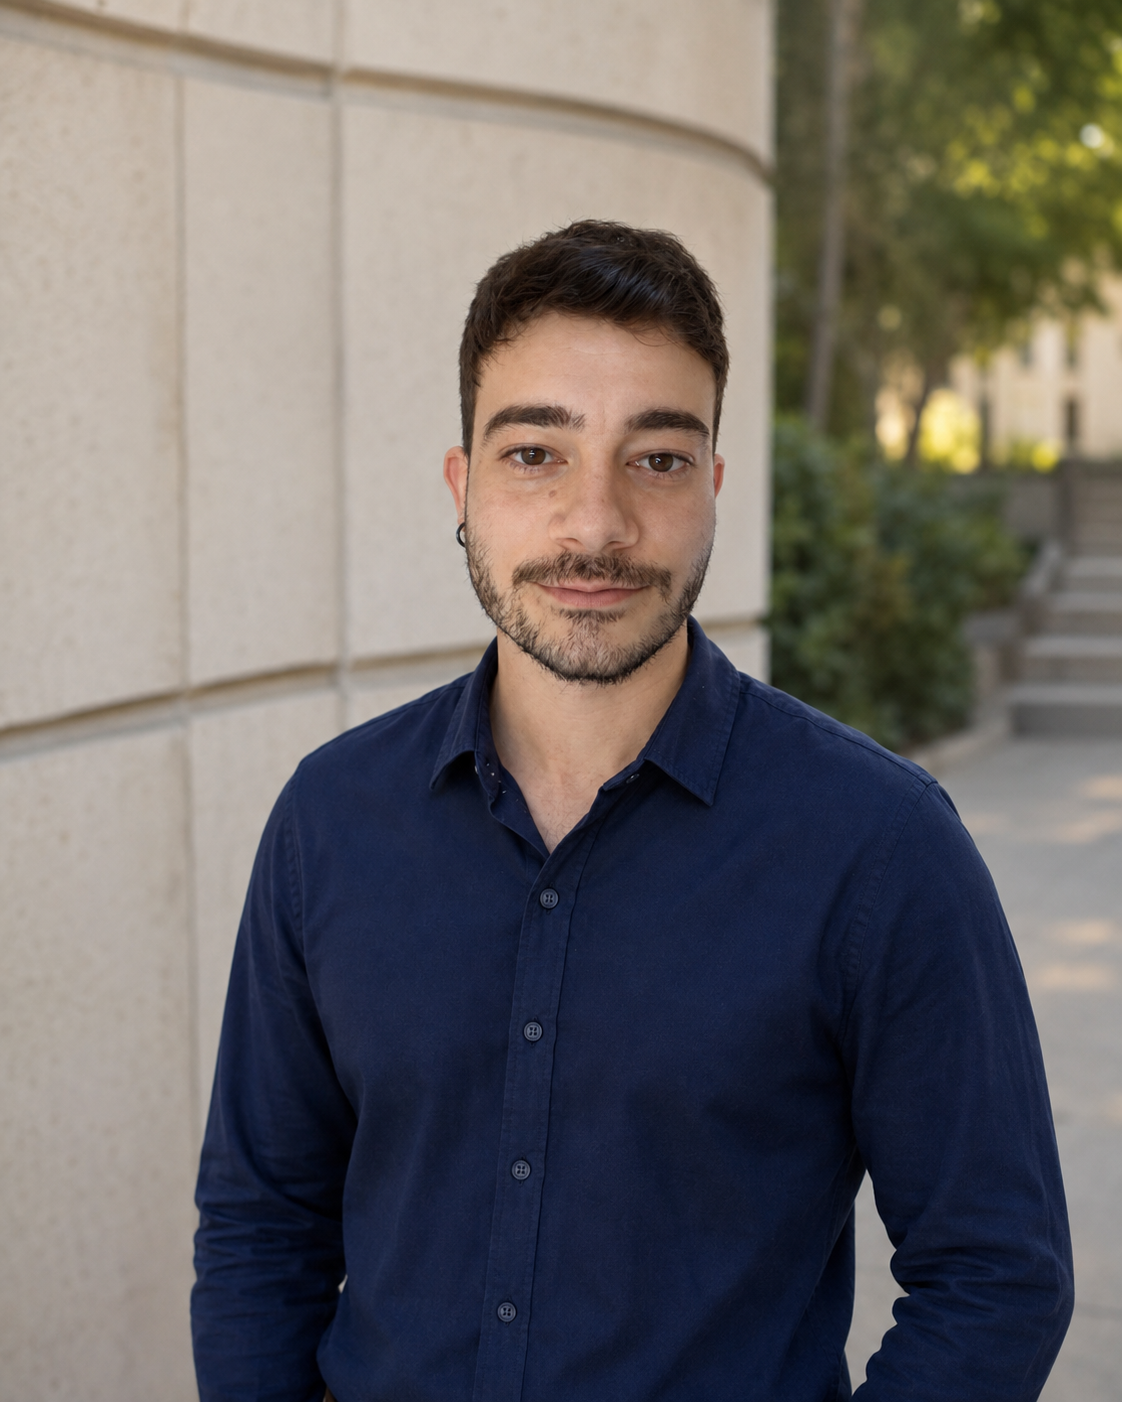
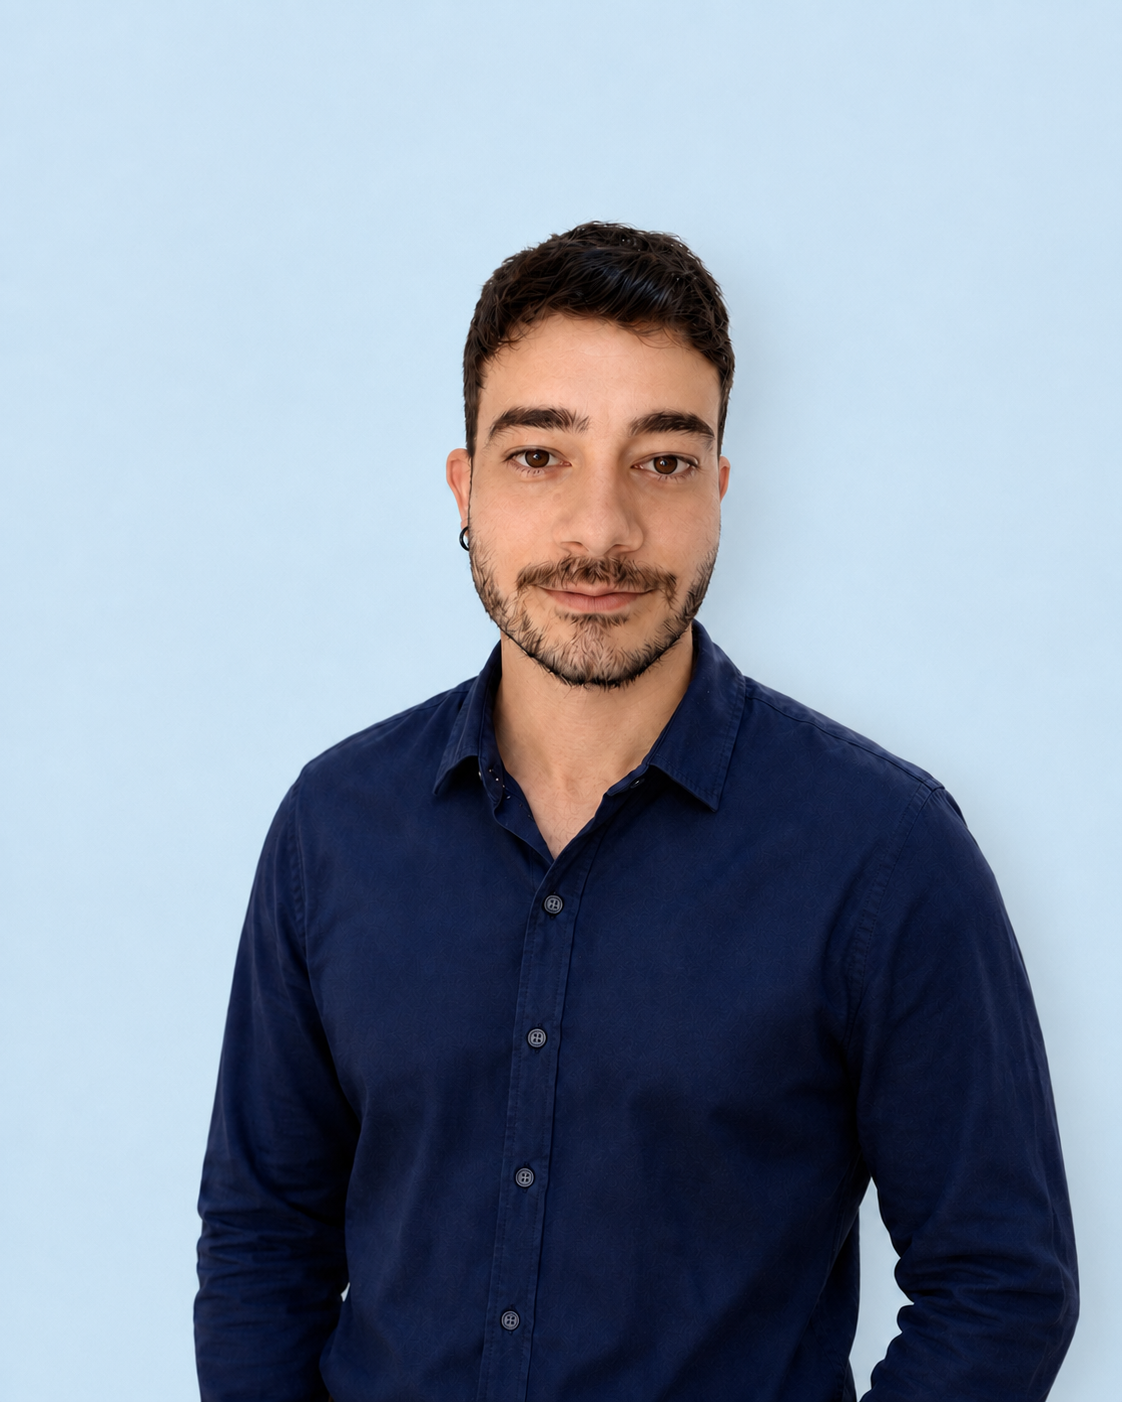
refine(home): compact hero layout and photo panel
Tighten text rhythm, align hero grid with navbar, resize photo with max-height cap, and simplify container styling for the new blue-background image.

diff --git a/sections/Hero.tsx b/sections/Hero.tsx
@@ -22,79 +22,70 @@ const Hero: React.FC<HeroProps> = ({ onNavigateRisorse }) => {
   };
 
   return (
-    <section className="relative pt-24 pb-4 lg:pt-28 lg:pb-5 overflow-hidden bg-white">
+    <section className="relative pt-24 pb-3 lg:pt-24 lg:pb-4 overflow-hidden bg-white">
       {/* Sfondo con gradiente soft */}
       <div className="absolute inset-0 -z-10 bg-gradient-to-b from-slate-50/80 via-white to-white" />
       <div className="absolute top-0 left-1/2 -translate-x-1/2 w-full max-w-4xl h-[480px] bg-gradient-to-b from-blue-100/40 to-transparent rounded-full blur-3xl -z-10" />
 
-      <div className="max-w-[1320px] mx-auto px-4 sm:px-6 lg:px-8 relative z-10">
-        <div className="grid grid-cols-1 lg:grid-cols-[minmax(0,1.15fr)_minmax(410px,480px)] lg:gap-x-16 xl:gap-x-20 lg:gap-y-0 lg:items-center">
-          {/* Badge */}
-          <div className="order-1 lg:col-start-1 lg:row-start-1 flex justify-center lg:justify-start mb-4 sm:mb-5 lg:mb-5">
-            <div className="inline-flex items-center px-5 py-2 rounded-full bg-blue-50/90 border border-blue-100 text-blue-700 shadow-sm gap-2 ring-1 ring-blue-50">
+      <div className="max-w-7xl mx-auto px-4 sm:px-6 lg:px-8 relative z-10">
+        <div className="grid grid-cols-1 lg:grid-cols-[minmax(0,1fr)_auto] lg:gap-x-12 xl:gap-x-16 lg:items-center">
+          {/* Gruppo testuale compatto */}
+          <div className="order-1 flex flex-col items-center lg:items-start text-center lg:text-left">
+            <div className="inline-flex items-center px-5 py-2 rounded-full bg-blue-50/90 border border-blue-100 text-blue-700 shadow-sm gap-2 ring-1 ring-blue-50 mb-8">
               <GraduationCap className="w-4 h-4 text-blue-600" aria-hidden />
               <span className="text-sm font-semibold">Tutor STEM</span>
             </div>
-          </div>
 
-          {/* Titolo */}
-          <h1 className="order-2 lg:col-start-1 lg:row-start-2 max-w-4xl mx-auto lg:mx-0 text-center lg:text-left text-[2.125rem] sm:text-5xl lg:text-[3.75rem] font-extrabold text-slate-900 leading-[1.08] mb-5 sm:mb-6 tracking-tight">
-            Percorsi strutturati in <br className="hidden lg:block" />
-            <span className="gradient-text">Matematica e Fisica</span>
-          </h1>
+            <h1 className="text-[2.125rem] sm:text-5xl lg:text-[3.5rem] font-extrabold text-slate-900 leading-[1.08] mb-10 tracking-tight">
+              Percorsi strutturati in <br className="hidden lg:block" />
+              <span className="gradient-text">Matematica e Fisica</span>
+            </h1>
 
-          {/* Sottotitolo */}
-          <p className="order-3 lg:col-start-1 lg:row-start-3 text-lg sm:text-xl lg:text-2xl text-slate-500 font-light max-w-3xl mx-auto lg:mx-0 text-center lg:text-left mb-7 sm:mb-8 leading-relaxed">
-            Percorsi guidati di Matematica e Fisica per il{' '}
-            <span className="font-semibold text-slate-700">semestre filtro</span> di Medicina, i test{' '}
-            <span className="font-semibold text-slate-700">TOLC</span>, l&apos;università e le scuole superiori.
-          </p>
+            <p className="text-lg sm:text-xl lg:text-2xl text-slate-500 font-light max-w-xl lg:max-w-[32rem] mb-9 leading-relaxed">
+              Percorsi guidati di Matematica e Fisica per il{' '}
+              <span className="font-semibold text-slate-700">semestre filtro</span> di Medicina, i test{' '}
+              <span className="font-semibold text-slate-700">TOLC</span>, l&apos;università e le scuole superiori.
+            </p>
 
-          {/* CTA */}
-          <div className="order-4 lg:col-start-1 lg:row-start-4 flex flex-col sm:flex-row flex-wrap gap-3 sm:gap-4 justify-center lg:justify-start items-stretch sm:items-center max-w-md sm:max-w-none mx-auto lg:mx-0">
-            <a
-              href="#contatti"
-              onClick={(e) => scrollToSection(e, 'contatti')}
-              className="hero-cta inline-flex items-center justify-center w-full sm:w-[320px] h-14 px-6 text-lg font-bold text-white bg-blue-600 rounded-2xl hover:bg-blue-700 transition-all duration-300 shadow-lg shadow-blue-900/20 hover:shadow-xl hover:shadow-blue-900/25 group transform hover:-translate-y-0.5 active:translate-y-0 whitespace-nowrap"
-            >
-              <MessageCircle className="mr-2 w-5 h-5 text-emerald-200 shrink-0 group-hover:scale-105 transition-transform" aria-hidden />
-              <span>Prenota una consulenza</span>
-              <ArrowRight className="ml-2 w-5 h-5 shrink-0 group-hover:translate-x-0.5 transition-transform" aria-hidden />
-            </a>
-            <button
-              type="button"
-              onClick={onNavigateRisorse}
-              className="hero-cta inline-flex items-center justify-center w-full sm:w-[320px] h-14 px-6 text-lg font-bold text-blue-600 bg-white border-2 border-blue-600 rounded-2xl hover:bg-blue-50 hover:border-blue-700 hover:text-blue-700 transition-all duration-300 group transform hover:-translate-y-0.5 active:translate-y-0 whitespace-nowrap"
-            >
-              <BookOpen className="mr-2 w-5 h-5 text-blue-600 shrink-0 group-hover:scale-105 transition-transform" aria-hidden />
-              <span>Esplora le risorse gratuite</span>
-            </button>
+            <div className="flex flex-col sm:flex-row flex-wrap gap-3 justify-center lg:justify-start w-full sm:w-auto">
+              <a
+                href="#contatti"
+                onClick={(e) => scrollToSection(e, 'contatti')}
+                className="hero-cta inline-flex items-center justify-center h-14 px-5 text-lg font-bold text-white bg-blue-600 rounded-2xl hover:bg-blue-700 transition-all duration-300 shadow-lg shadow-blue-900/20 hover:shadow-xl hover:shadow-blue-900/25 group transform hover:-translate-y-0.5 active:translate-y-0 whitespace-nowrap w-full max-w-sm mx-auto sm:mx-0 sm:w-auto"
+              >
+                <MessageCircle className="mr-2 w-5 h-5 text-emerald-200 shrink-0 group-hover:scale-105 transition-transform" aria-hidden />
+                <span>Prenota una consulenza</span>
+                <ArrowRight className="ml-2 w-5 h-5 shrink-0 group-hover:translate-x-0.5 transition-transform" aria-hidden />
+              </a>
+              <button
+                type="button"
+                onClick={onNavigateRisorse}
+                className="hero-cta inline-flex items-center justify-center h-14 px-5 text-lg font-bold text-blue-600 bg-white border-2 border-blue-600 rounded-2xl hover:bg-blue-50 hover:border-blue-700 hover:text-blue-700 transition-all duration-300 group transform hover:-translate-y-0.5 active:translate-y-0 whitespace-nowrap w-full max-w-sm mx-auto sm:mx-0 sm:w-auto"
+              >
+                <BookOpen className="mr-2 w-5 h-5 text-blue-600 shrink-0 group-hover:scale-105 transition-transform" aria-hidden />
+                <span>Esplora le risorse gratuite</span>
+              </button>
+            </div>
           </div>
 
           {/* Fotografia */}
-          <div className="order-5 lg:order-none lg:col-start-2 lg:row-start-1 lg:row-end-5 flex justify-center lg:justify-end mt-8 lg:mt-0">
-            <div className="relative w-full max-w-[300px] sm:max-w-[340px] lg:max-w-[440px] lg:w-[440px] shrink-0">
-              <div
-                className="absolute -inset-3 sm:-inset-4 bg-gradient-to-br from-blue-200/35 via-emerald-100/25 to-teal-100/30 rounded-[1.75rem] blur-2xl -z-10"
-                aria-hidden
+          <div className="order-2 flex justify-center lg:justify-end mt-8 lg:mt-0 lg:self-center">
+            <div className="w-full max-w-[280px] sm:max-w-[300px] lg:max-w-[460px] aspect-[4/5] max-h-[65vh] rounded-[30px] overflow-hidden border border-slate-200/50 shadow-md shadow-slate-900/[0.06]">
+              <img
+                src="/homepage_pic.png"
+                alt="Ivan Gaeta, tutor di Matematica e Fisica"
+                width={1122}
+                height={1402}
+                fetchPriority="high"
+                decoding="async"
+                className="w-full h-full object-cover object-[center_18%]"
               />
-              <div className="relative aspect-[4/5] rounded-2xl overflow-hidden border border-slate-200/70 shadow-lg shadow-slate-900/[0.07]">
-                <img
-                  src="/homepage_pic.png"
-                  alt="Ivan Gaeta, tutor di Matematica e Fisica"
-                  width={1122}
-                  height={1402}
-                  fetchPriority="high"
-                  decoding="async"
-                  className="w-full h-full object-cover object-center"
-                />
-              </div>
             </div>
           </div>
 
           {/* Fascia di fiducia */}
           <div
-            className="order-6 lg:col-span-2 lg:row-start-5 mt-8 sm:mt-10 pt-6 sm:pt-7 border-t border-slate-100"
+            className="order-3 lg:col-span-2 mt-6 sm:mt-8 pt-5 sm:pt-6 border-t border-slate-100"
             aria-label="Punti di forza"
           >
             <div className="flex flex-col sm:flex-row flex-wrap justify-center items-center gap-3 sm:gap-6 lg:gap-8 text-sm text-slate-600">
